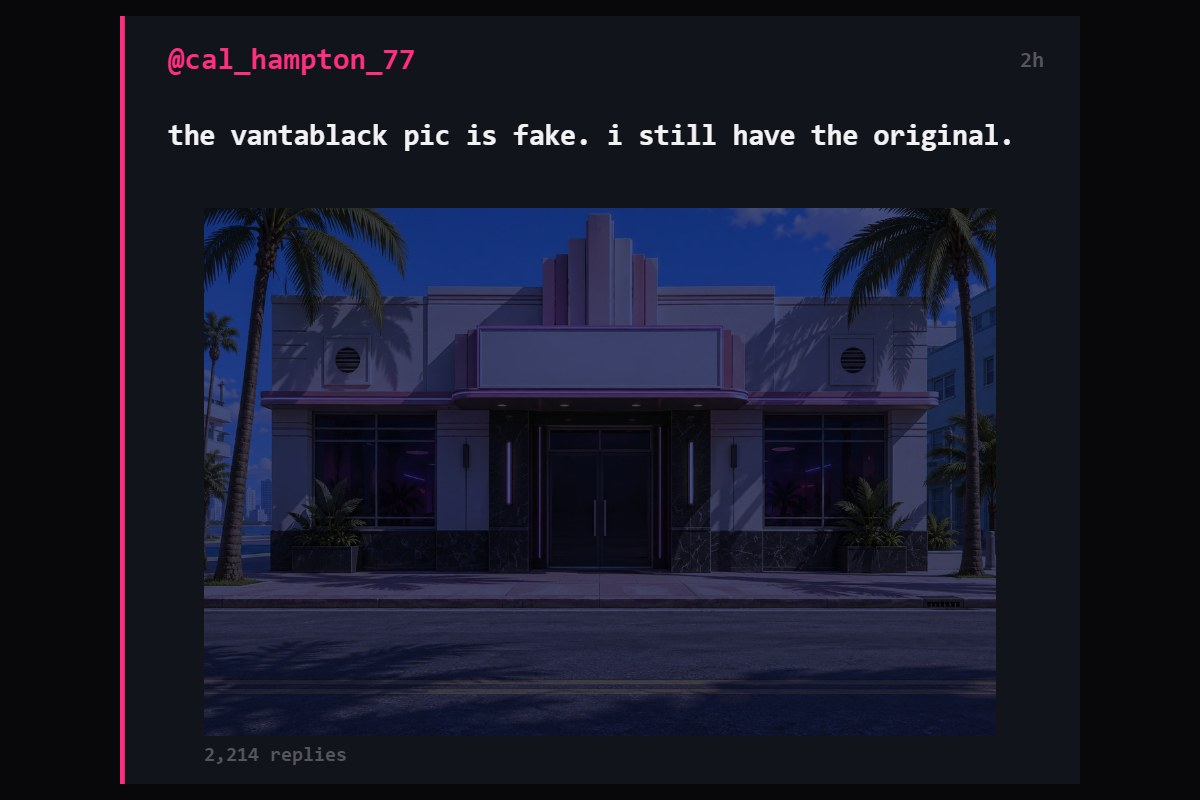
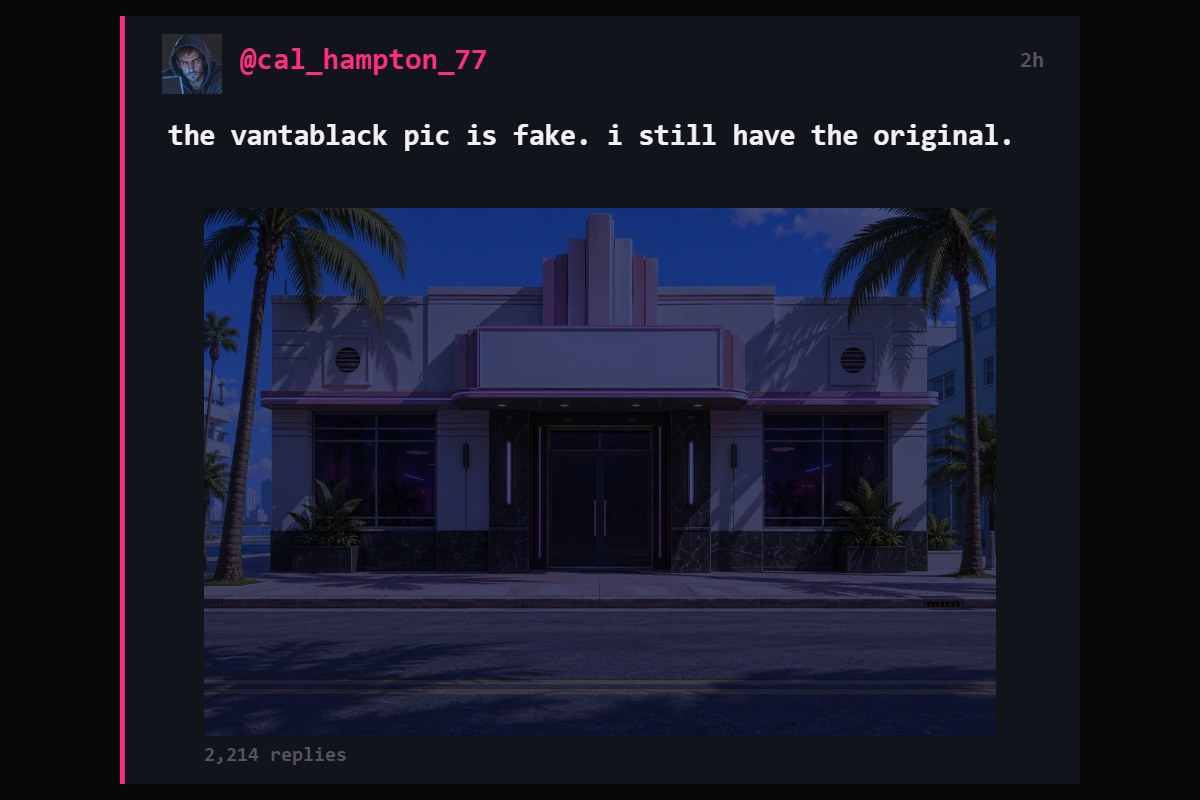
Give the accounts faces
The feed was a column of usernames and sentences. Correct, readable, and it read
like a log file rather than like a street full of people talking about a
photograph you faked.

Everybody who speaks more than once has a portrait now: the four in the crowd, the
six clients who give a name, and him. They are on the feed posts, on the crowd
cards during a post, at the top of the client thread, over his closing line, on
his folder of originals, and under his last post at the ending.

One account has no face, and that is the whole point of it. The client on jobs
four, five and nine is `no name given`, so where everybody else has a photograph
there are two letters and a box. It says more about that person than a portrait
would.

Cut from one contact sheet rather than generated eleven separate times, which
matters more than any individual likeness: at 26px what registers is whether they
came from the same hand, and they did. 11 files, 192 KB.

His is also the one portrait the world draws rather than the interface — it is
inside the screenshot of his own post in the ninth job, beside his handle, which
is where a face belongs when the picture is a picture of a post.

Changed region(s): [[0.1233, 0.0312, 0.4008, 0.125]]

diff --git a/src/components/Feed.tsx b/src/components/Feed.tsx
@@ -2,6 +2,7 @@
 
 import { useState } from 'react';
 import ZoomView from './ZoomView';
+import { faceFor, initialsFor } from '@/lib/faces';
 import type { Zone } from '@/lib/zones';
 
 /**
@@ -31,6 +32,39 @@ export type FeedItem = {
 };
 
 export const HIM = 'cal_hampton_77';
+
+/**
+ * Who is talking.
+ *
+ * Everybody who speaks more than once has a portrait. The one account that does
+ * not is the client who will not give a name, and the blank square where his
+ * face should be is the point rather than an omission.
+ */
+export function Avatar({ who, size = 26 }: { who: string; size?: number }) {
+  const src = faceFor(who);
+  if (!src) {
+    return (
+      <span
+        aria-hidden
+        style={{ width: size, height: size }}
+        className="flex shrink-0 items-center justify-center border border-line bg-ink text-[9px] text-dim"
+      >
+        {initialsFor(who)}
+      </span>
+    );
+  }
+  return (
+    // eslint-disable-next-line @next/next/no-img-element
+    <img
+      src={src}
+      alt=""
+      width={size}
+      height={size}
+      style={{ width: size, height: size }}
+      className="shrink-0 border border-line object-cover"
+    />
+  );
+}
 
 function Likes({ n }: { n: number }) {
   return (
@@ -95,16 +129,17 @@ export default function Feed({ items }: { items: FeedItem[] }) {
               him ? 'border-accent bg-raised' : 'border-line bg-panel'
             }`}
           >
-            <div className="flex items-baseline justify-between gap-2">
-              <span
-                className={`text-[11px] ${him ? 'text-accent' : 'text-mute'}`}
-              >
+            <div className="flex items-center gap-2">
+              <Avatar who={item.who} />
+              <span className={`text-[11px] ${him ? 'text-accent' : 'text-mute'}`}>
                 @{item.who}
               </span>
-              <Likes n={item.likes} />
+              <span className="ml-auto">
+                <Likes n={item.likes} />
+              </span>
             </div>
 
-            <p className="mt-1 text-xs leading-snug text-text/85">{item.text}</p>
+            <p className="mt-1.5 text-xs leading-snug text-text/85">{item.text}</p>
 
             {item.image && <PostImage printed={item.image} sent={item.sent} />}
 

diff --git a/src/components/Game.tsx b/src/components/Game.tsx
@@ -6,7 +6,7 @@ import ImageEditor, {
   type ImageEditorSaveResult,
 } from '@unlayer/react-image-editor';
 import CaseCard from './CaseCard';
-import Feed, { HIM, type FeedItem } from './Feed';
+import Feed, { Avatar, HIM, type FeedItem } from './Feed';
 import PostStage, { useSequence } from './PostStage';
 import ZoomView from './ZoomView';
 import { type DiffReport, diffImages } from '@/lib/diff';
@@ -771,6 +771,14 @@ export default function Game({
               </div>
             ) : rail === 'client' ? (
               <div className="flex flex-col gap-1.5">
+                {/* whoever is paying, at the top, so you know who you are working for */}
+                <div className="mb-1 flex items-center gap-2 border-b border-line pb-2">
+                  <Avatar who={level.client} size={30} />
+                  <div>
+                    <p className="text-[11px] text-text">@{level.client}</p>
+                    <p className="text-[10px] text-dim">the client</p>
+                  </div>
+                </div>
                 {thread.map((m, i) => (
                   <p
                     key={`${i}-${m.text.slice(0, 10)}`}
@@ -812,10 +820,13 @@ export default function Game({
 
                 {onlyHim ? (
                   <div data-testid="his-thread" className="flex flex-col gap-2">
-                    <p className="text-[10px] leading-snug text-dim">
-                      Everything @{HIM} has posted about your work, oldest first. He keeps
-                      the originals.
-                    </p>
+                    <div className="flex items-center gap-2 border-b border-line pb-2">
+                      <Avatar who={HIM} size={30} />
+                      <p className="text-[10px] leading-snug text-dim">
+                        Everything @{HIM} has posted about your work, oldest first. He keeps
+                        the originals.
+                      </p>
+                    </div>
                     {[...his].map((p, i) => (
                       <article
                         key={`${i}-${p.text.slice(0, 12)}`}

diff --git a/src/components/PostStage.tsx b/src/components/PostStage.tsx
@@ -1,6 +1,7 @@
 'use client';
 
 import { useCallback, useEffect, useRef, useState } from 'react';
+import { Avatar } from './Feed';
 import ZoomView from './ZoomView';
 import type { Final, Sequence, Step } from '@/lib/sequence';
 import type { Message } from '@/lib/story';
@@ -196,7 +197,8 @@ export default function PostStage({
             data-testid="his-beat"
             className="flex h-full flex-col items-center justify-center px-8 text-center"
           >
-            <p className="eyebrow text-xs tracking-[0.32em] text-accent">@cal_hampton_77</p>
+            <Avatar who="cal_hampton_77" size={64} />
+            <p className="eyebrow mt-3 text-xs tracking-[0.32em] text-accent">@cal_hampton_77</p>
             <p className="mt-5 max-w-2xl text-[clamp(1rem,2.4vw,1.6rem)] leading-relaxed text-text">
               {now.text}
             </p>
@@ -311,12 +313,15 @@ export default function PostStage({
               <div
                 key={r.text}
                 data-testid="stage-reply"
-                className="card-in border-l-2 border-line bg-panel/95 px-2.5 py-1.5"
+                className="card-in flex gap-2 border-l-2 border-line bg-panel/95 px-2.5 py-1.5"
               >
-                <p className="text-[10px] text-dim">
-                  @{r.who} <span className="text-dim">♥ {r.likes}</span>
-                </p>
-                <p className="text-[11px] leading-snug text-text/90">{r.text}</p>
+                <Avatar who={r.who} size={22} />
+                <div>
+                  <p className="text-[10px] text-dim">
+                    @{r.who} <span className="text-dim">♥ {r.likes}</span>
+                  </p>
+                  <p className="text-[11px] leading-snug text-text/90">{r.text}</p>
+                </div>
               </div>
             ))}
           </div>

diff --git a/src/lib/faces.ts b/src/lib/faces.ts
@@ -1,0 +1,47 @@
+/**
+ * Who the handles belong to.
+ *
+ * The feed was a column of usernames and sentences, which reads as a log file
+ * rather than as a street full of people talking about you. Every account that
+ * speaks more than once has a face now — the four in the crowd, the six clients
+ * who give a name, and him.
+ *
+ * One account deliberately has no face. The client on jobs four, five and nine
+ * is `no name given`, and a blank square where everybody else has a photograph
+ * says more about that person than any portrait would.
+ *
+ * Illustrated, 256px, one contact sheet cut up rather than eleven separate
+ * generations, so they are unmistakably the same hand — which matters more at
+ * avatar size than any individual likeness does.
+ */
+
+const FACES = new Set([
+  'cal_hampton_77',
+  'marla_qt',
+  'boardwalk_dan',
+  'nine_lives_vc',
+  'leonida_lurker',
+  'gutter_rat_88',
+  'm_delacroix',
+  'r_okafor',
+  'w_castellano',
+  't_mazur',
+  'j_ferreira',
+]);
+
+/** The portrait for a handle, or null for somebody who does not have one. */
+export function faceFor(handle: string): string | null {
+  return FACES.has(handle) ? `/art/faces/${handle}.jpg` : null;
+}
+
+/**
+ * What to show when there is no photograph.
+ *
+ * Initials rather than a silhouette, because the whole game is about files on
+ * people and a file with no photograph still has a name on it — and because
+ * `no name given` resolving to two dashes is exactly right.
+ */
+export function initialsFor(handle: string): string {
+  const letters = handle.replace(/[^a-z0-9]/gi, '');
+  return (letters.slice(0, 2) || '--').toUpperCase();
+}

diff --git a/src/lib/levels/level9.ts b/src/lib/levels/level9.ts
@@ -35,9 +35,12 @@ import type { Level, WorldState } from '../level';
 import { looksPainted } from '../suspicion';
 import { toPixels, type ZoneMap } from '../zones';
 
+/** his photograph, beside his handle. Not a zone: nothing is measured on it */
+const FACE = { x: 0.135, y: 0.042, w: 0.05, h: 0.075 };
+
 const ZONES: ZoneMap = {
   /** his handle. Change it and it stops being his post at all */
-  handle: { x: 0.14, y: 0.05, w: 0.34, h: 0.055 },
+  handle: { x: 0.2, y: 0.05, w: 0.34, h: 0.055 },
   /** the line he wrote, which is the thing being replaced */
   quote: { x: 0.14, y: 0.13, w: 0.72, h: 0.085 },
   /** the photograph he attached as proof — 3:2, so the art is not stretched */
@@ -58,6 +61,8 @@ function composite(state: WorldState, ctx: Ctx) {
   fill(ctx, CARD, '#12141b');
   fill(ctx, { x: CARD.x, y: CARD.y, w: 0.004, h: CARD.h }, '#ff2e7e');
 
+  // the one portrait the world draws rather than the interface
+  place(ctx, 'face-cal', FACE);
   label(ctx, '@cal_hampton_77', ZONES.handle.x, ZONES.handle.y + ZONES.handle.h / 2, '#ff2e7e', 30, 'left');
   label(ctx, '2h', CARD.x + CARD.w - 0.03, ZONES.handle.y + ZONES.handle.h / 2, '#55555e', 22, 'right');
 

diff --git a/src/components/screens/Ending.tsx b/src/components/screens/Ending.tsx
@@ -3,7 +3,7 @@
 import CaseCard from "../CaseCard";
 import { ENDING } from "@/lib/story";
 import { bandFor, VERDICT, type Standing } from "@/lib/heat";
-import { HIM } from "../Feed";
+import { Avatar, HIM } from "../Feed";
 
 /** The last screen. Five jobs, and the man who was right about all of them. */
 export default function Ending({
@@ -64,9 +64,10 @@ export default function Ending({
               data-testid="his-file"
               className="border-l-2 border-accent bg-panel/80 p-4"
             >
-              <div className="flex items-baseline justify-between">
+              <div className="flex items-center gap-2">
+                <Avatar who={HIM} size={30} />
                 <p className="eyebrow text-xs tracking-[0.2em] text-accent">@{HIM}</p>
-                <span className="text-[10px] text-dim">♥ 41,208</span>
+                <span className="ml-auto text-[10px] text-dim">♥ 41,208</span>
               </div>
               <p className="mt-2 text-sm leading-relaxed text-text/90">{ENDING.hisPost}</p>
               <CaseCard progress={progress} />

diff --git a/src/lib/assets.ts b/src/lib/assets.ts
@@ -24,6 +24,9 @@ export const ASSETS = {
   'cut-car': '/art/cut-car.png',
   'cut-witness': '/art/cut-witness.png',
   'cut-ev': '/art/cut-ev.png',
+  // the only portrait the world draws rather than the interface: his, inside
+  // the screenshot of his own post
+  'face-cal': '/art/faces/cal_hampton_77.jpg',
 } as const;
 
 export type AssetName = keyof typeof ASSETS;

diff --git a/README.md b/README.md
@@ -243,7 +243,10 @@ Open **Forensics** in the bottom-left of any job to see exactly what it read off
 - **Next.js 16.3.5**, React 19.2.8, Tailwind v4, TypeScript. ~9,700 lines across `src/` and `tools/`.
 - **Sound is synthesised** with Web Audio — cues plus a per-scene bed of filtered noise and one low
   tone. No audio files ship, nothing to license.
-- **Art**: 14 files, 4.1 MB total — nine 1200×800 backgrounds and five trimmed RGBA cut-outs.
+- **Art**: 14 backgrounds and cut-outs plus 11 portraits, 4.4 MB total. Every account that speaks
+  more than once has a face, cut from a single contact sheet rather than generated eleven times,
+  so at avatar size they are unmistakably the same hand. One account has no face on purpose: the
+  client who will not give a name.
   One of those backgrounds is the ninth job compositing itself: a screenshot has no photograph to
   generate, only interface, and interface is flat colour and type.
   Cut-outs are pre-trimmed to their content so a zone and the art that fills it are the same
